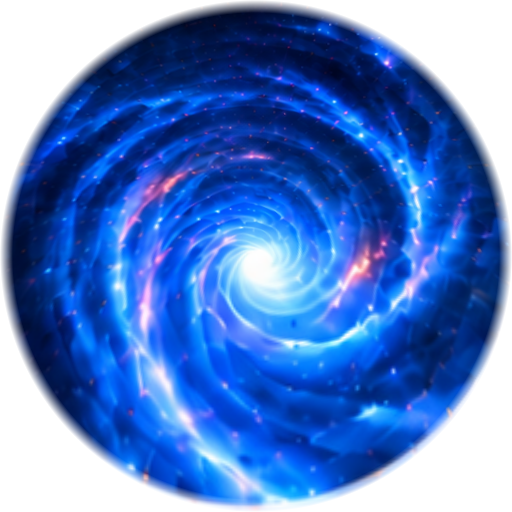
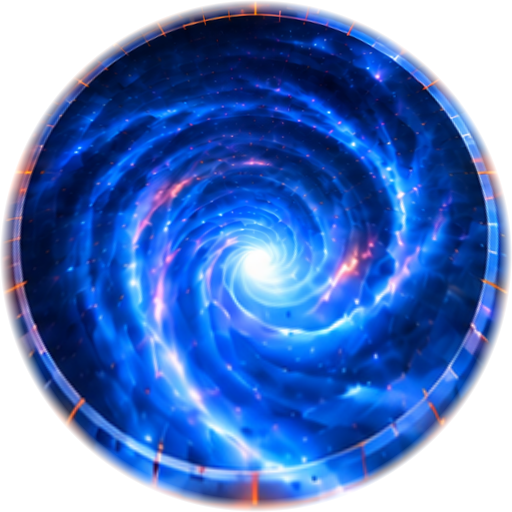
0.84: blauer Strudel-Rest unten entfernt, Innenring dreht mit
Claude-Session: https://claude.ai/code/session_01YVTijdg2NrzQSAymz9VLAz

diff --git a/drei.js b/drei.js
@@ -467,7 +467,7 @@ const uhrTeil = (datei, seite, z) => {
   new THREE.TextureLoader().load(datei, t => { t.colorSpace = THREE.SRGBColorSpace; mat.map = t; mat.needsUpdate = true; m.visible = true; });
   return m;
 };
-const strudel = uhrTeil('strudel.png', 2 * 174, 0.1); strudel.position.y = -(319 - UHR.y);   // ganzer Strudel bis an den Innenring (tools/zeiger_einbau.py)
+const strudel = uhrTeil('strudel.png', 2 * 191, 0.1); strudel.position.y = -(319 - UHR.y);   // ganzer Strudel bis an den Innenring (tools/zeiger_einbau.py)
 const zStunde = uhrTeil('zeiger_h.png', 2 * UHR.lh / 0.967, 0.3);     // Spitze bei 0,967 bzw. 0,985 der halben Kante
 const zMinute = uhrTeil('zeiger_m.png', 2 * UHR.lm / 0.985, 0.5);
 uhrTeil('zeiger_n.png', 2 * UHR.rn * 90 / 78.5, 0.7);

diff --git a/index.html b/index.html
@@ -158,7 +158,7 @@
 <div id="stage"><canvas id="c" aria-label="Flippertisch"></canvas></div>
 
 <script>
-const APP_VERSION = '0.83';          // bei JEDER Änderung hochzählen
+const APP_VERSION = '0.84';          // bei JEDER Änderung hochzählen
 </script>
 <script>
 // ---------- Ton (Web Audio, synthetisch, keine Dateien) ----------

diff --git a/tools/zeiger_einbau.py b/tools/zeiger_einbau.py
@@ -32,14 +32,24 @@ for name, (cx, cy, hk, aus) in TEILE.items():
     Image.fromarray(rgba, 'RGBA').resize((aus, aus), Image.LANCZOS).save(f'zeiger_{name}.png', optimize=True)
     print(f'zeiger_{name}.png', aus, 'Spitze bei', round((cy - (269 if name == "h" else 16)) / hk, 3) if name != 'n' else '-', 'der halben Kante')
 
-Image.open('bilder/eingang/kopf_ohne_zeiger_v1.png').convert('RGB').save('kopf.jpg', quality=86, optimize=True, progressive=True)
+# 0.84: Zwischen Innenring und Ziffern (r 193–216 um 886/319) läuft unten (6 → 5 Uhr) ein Rest des Strudels, der sich nicht mitdreht.
+# Bläuliche Pixel in diesem Ring werden auf das dunkle Nachtblau der Umgebung gezogen; die orangen Ziffern bleiben (nicht bläulich).
+k = np.asarray(Image.open('bilder/eingang/kopf_ohne_zeiger_v1.png').convert('RGB')).astype(float)
+yy, xx = np.mgrid[0:k.shape[0], 0:k.shape[1]]
+rr = np.hypot(xx - 886, yy - 319)
+ring = np.clip((rr - 189) / 3, 0, 1) * np.clip((220 - rr) / 3, 0, 1)
+blau = np.clip((k[..., 2] - np.maximum(k[..., 1], k[..., 0] * 0.8) + 10) / 50, 0, 1)   # blau und violett, nicht orange
+w = (ring * blau)[..., None]
+nacht = np.array([10, 16, 40.0])
+k = k * (1 - w * 0.95) + nacht * w * 0.95
+Image.fromarray(k.clip(0, 255).astype(np.uint8)).save('kopf.jpg', quality=86, optimize=True, progressive=True)
 print('kopf.jpg')
 
 # Strudel (0.82): der ganze Strudel innerhalb des blauen Innenrings (Ringlinie bei r ≈ 173–182 um die Uhrmitte 886/316), Scheibe r 168.
 # Das Auge des Strudels sitzt im Bild nicht in der Mitte (885/389). Damit er beim Drehen nicht eiert, wird das Bild verzerrt: für jede
 # Richtung θ wird die Strecke vom Auge bis zum Kreisrand auf die Strecke Mitte → Rand abgebildet. Am Rand stimmt die Scheibe exakt mit dem
 # Bild überein, das Auge liegt danach genau in der Mitte. Rand ab 90 % weich ausgeblendet.
-CX, CY, CR, EX, EY, N = 886, 319, 174, 885, 389, 512   # 0.83: Innenring genauer vermessen (oben 143, unten 494 → Mitte 319, r 175)
+CX, CY, CR, EX, EY, N = 886, 319, 191, 885, 389, 512   # 0.84: inkl. hellblauem Innenring (r 175–190), der dreht als Lünette mit
 quelle = np.asarray(Image.open('bilder/eingang/kopf_ohne_zeiger_v1.png').convert('RGB')).astype(float)
 yy, xx = np.mgrid[0:N, 0:N]
 dx, dy = (xx + 0.5) / N * 2 - 1, (yy + 0.5) / N * 2 - 1

diff --git a/CLAUDE.md b/CLAUDE.md
@@ -391,6 +391,9 @@ Logos, Bilder oder Filmzitate (Seite ist öffentlich). Festgelegt:
   (Kante oben y 143, unten 494 → Mitte 886/319, r 175) → Strudel-Scheibe r 174 um 886/319, Rand nur noch 5 % weich. **Augen:** Grundglühen
   0,55, gelegentlich **Aufblitzen** (×1,8–2,6) oder kurzes Abdunkeln; im Multiball 1,4 ± 0,5 schnell pulsierend, beim Jackpot 2,2. Werte > 1
   schalten einen zweiten, 2,2× größeren additiven **Hof** zu.
+- Stand 0.84 (Nutzer: stehender blauer Rest bei 6 → 5 Uhr): Der Strudel lief im Bild über den hellblauen Innenring (r 175–190) und
+  darunter bis an die Ziffern. Jetzt: Scheibe r 191 **inkl. Innenring** (dreht als Lünette mit), und in `kopf.jpg` werden bläuliche/violette
+  Pixel im Ring r 189–220 um 886/319 auf Nachtblau (10/16/40) gezogen (95 %, orange Ziffern bleiben) – in `tools/zeiger_einbau.py`.
 - Physik-Test: `node tools/sim.js [minuten]` (Node-Simulation mit `window.__TEST__`): Abschuss-Pfad, jedes der 5
   Rundziele per Kanone treffbar (Winkel-Scan), Multiball per Treffer, dann Autoplay (Standard 10 min): Kugel
   verlässt nie den Tisch, bleibt nie hängen. Seit 0.18 auch Schädel-Klappziel → LOAD GUN → Laden, Targetlicht
